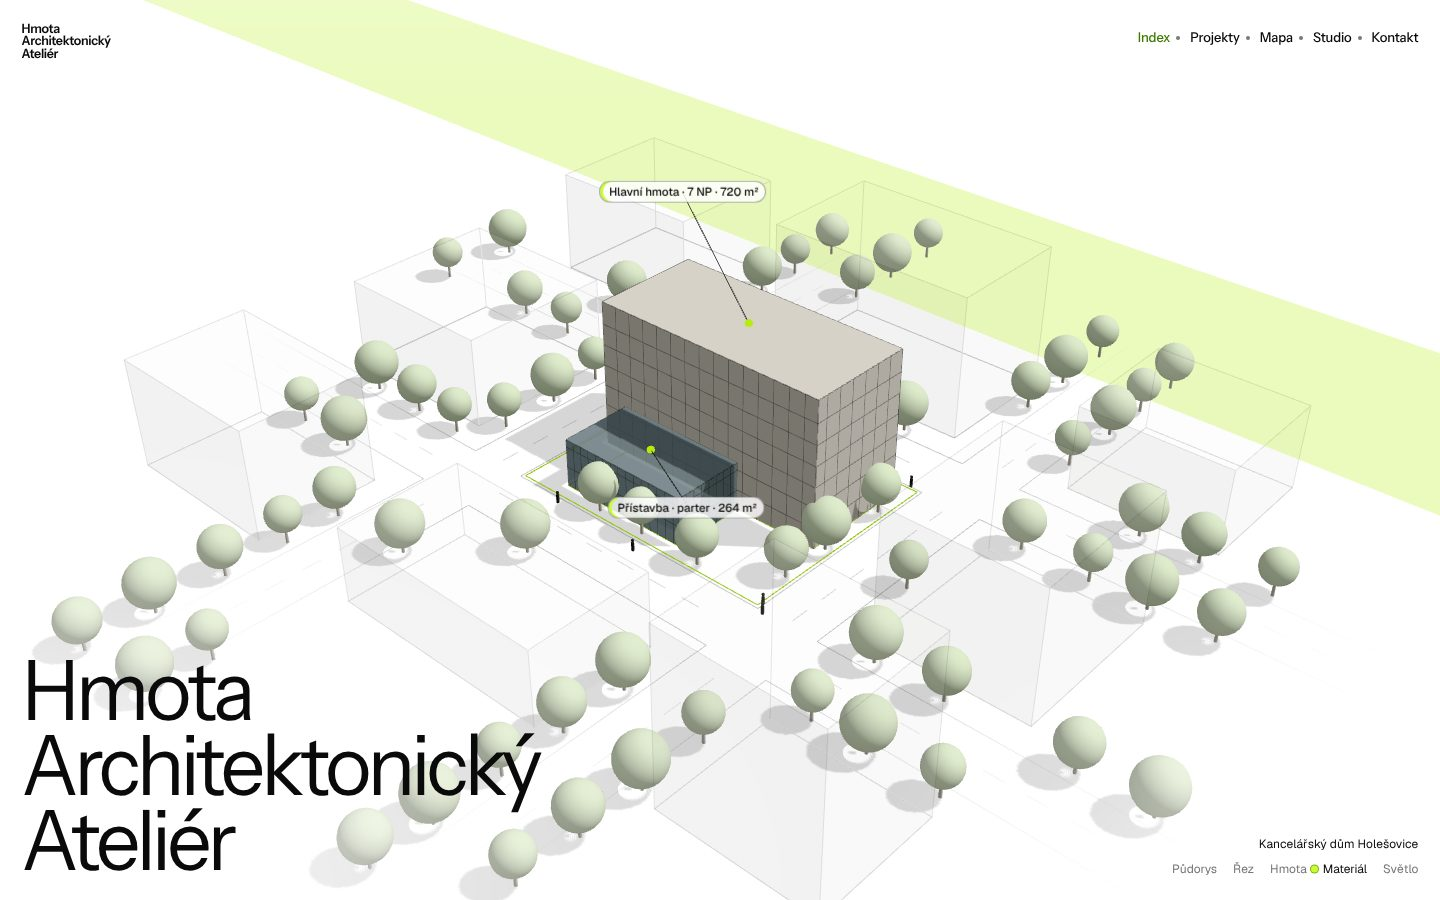
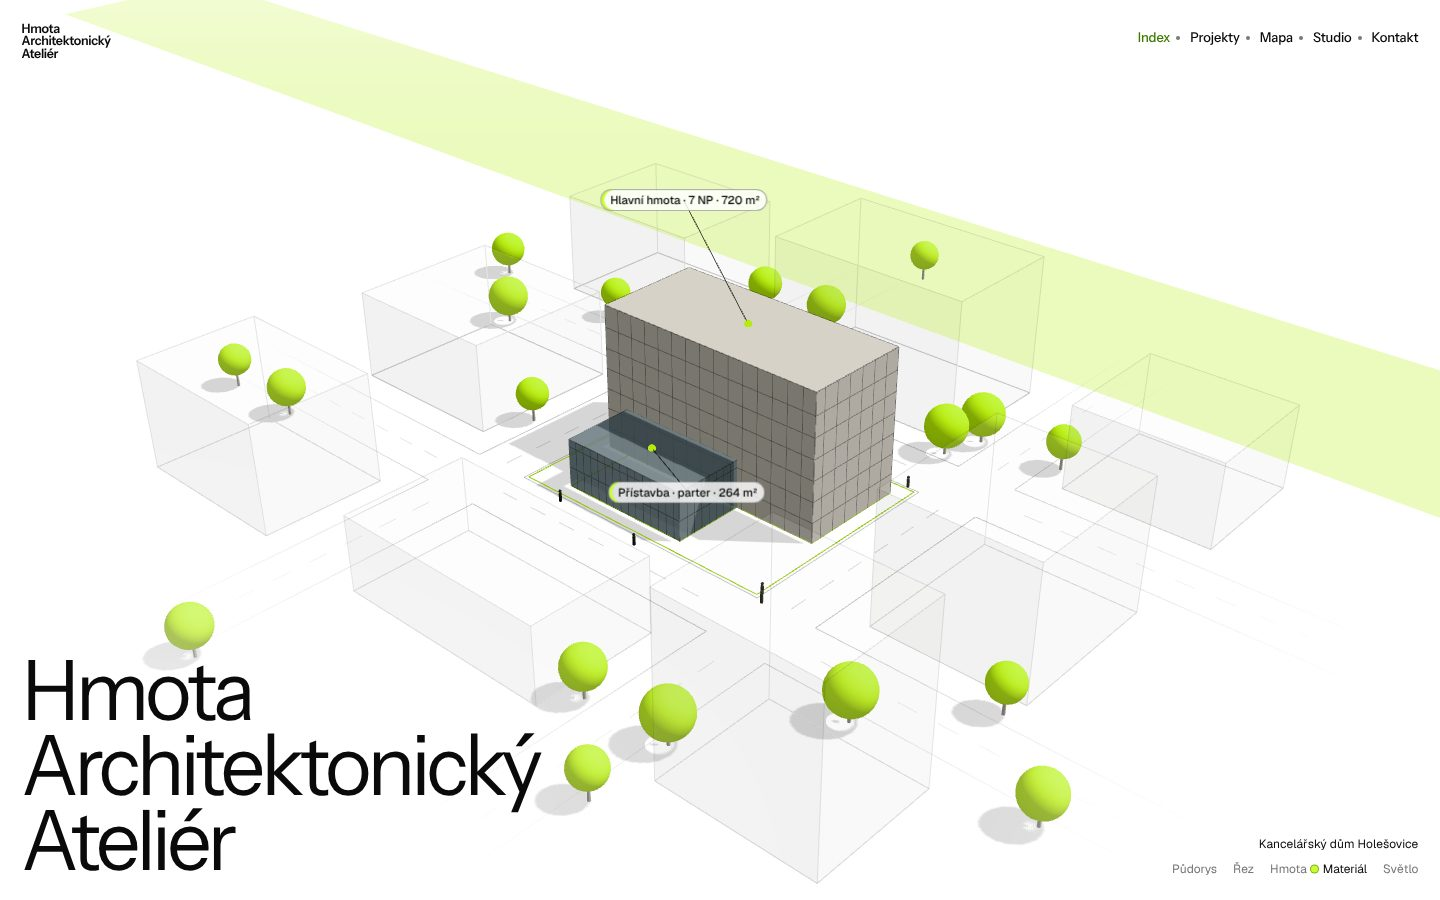
Hero: fewer lime trees, strip fades in after the plan view
- About half as many street trees, crowns in the site's lime (#C8FF2E),
  lit and shadow-casting so they read as volumes
- The lime strip at the back is hidden in the opening plan view and
  fades in once the model starts to tilt

Claude-Session: https://claude.ai/code/session_01Tmbk2gHDA56J7bBaFsfwrH

diff --git a/src/components/hero/HeroScene.tsx b/src/components/hero/HeroScene.tsx
@@ -550,17 +550,17 @@ function Site({ massing, stages }: { massing: Volume[]; stages: MutableRefObject
       lines.some((c) => Math.abs(v - c) < STREET / 2 + 2);
     let k = 0;
     for (const x of sx)
-      for (let z = -80; z <= 80; z += 10) {
+      for (let z = -80; z <= 80; z += 14) {
         if (inCrossing(z, sz)) continue;
         for (const side of [-1, 1])
-          if (rnd(k++) > 0.35)
+          if (rnd(k++) > 0.68)
             treePos.push([u(x + side * (STREET / 2 - 1.2)), 0, u(z + rnd(k) * 2)]);
       }
     for (const z of sz)
-      for (let x = -80; x <= 80; x += 10) {
+      for (let x = -80; x <= 80; x += 14) {
         if (inCrossing(x, sx)) continue;
         for (const side of [-1, 1])
-          if (rnd(k++) > 0.35)
+          if (rnd(k++) > 0.68)
             treePos.push([u(x + rnd(k) * 2), 0, u(z + side * (STREET / 2 - 1.2))]);
       }
     const peoplePos: [number, number, number][] = [
@@ -579,21 +579,19 @@ function Site({ massing, stages }: { massing: Volume[]; stages: MutableRefObject
       road: new THREE.LineBasicMaterial({ vertexColors: true, transparent: true, opacity: 0 }),
       dash: new THREE.LineBasicMaterial({ vertexColors: true, transparent: true, opacity: 0 }),
       water: new THREE.MeshBasicMaterial({ color: "#c8ff2e", transparent: true, opacity: 0 }),
-      crown: new THREE.MeshStandardMaterial({ color: "#f2f2ee", roughness: 1 }),
+      crown: new THREE.MeshStandardMaterial({ color: "#c8ff2e", roughness: 0.95 }),
       trunk: new THREE.MeshStandardMaterial({ color: "#b9b4aa", roughness: 1 }),
       person: new THREE.MeshStandardMaterial({ color: "#3a3a38", roughness: 1 }),
     }),
     [],
   );
-  const green = useMemo(() => new THREE.Color("#cfdcc0"), []);
-  const white = useMemo(() => new THREE.Color("#f2f2ee"), []);
 
   useFrame(() => {
-    const { draw, fill, material } = stages.current;
+    const { draw, rise, fill, material } = stages.current;
     mats.road.opacity = 0.22 * draw;
     mats.dash.opacity = 0.14 * draw;
-    mats.water.opacity = 0.3 * draw;
-    mats.crown.color.copy(white).lerp(green, material);
+    // the lime strip stays hidden in the plan view and fades in once the model tilts
+    mats.water.opacity = 0.3 * ease(clamp01((rise - 0.35) / 0.65));
     const g = ease(fill);
     if (trees.current) {
       trees.current.visible = g > 0.001;
